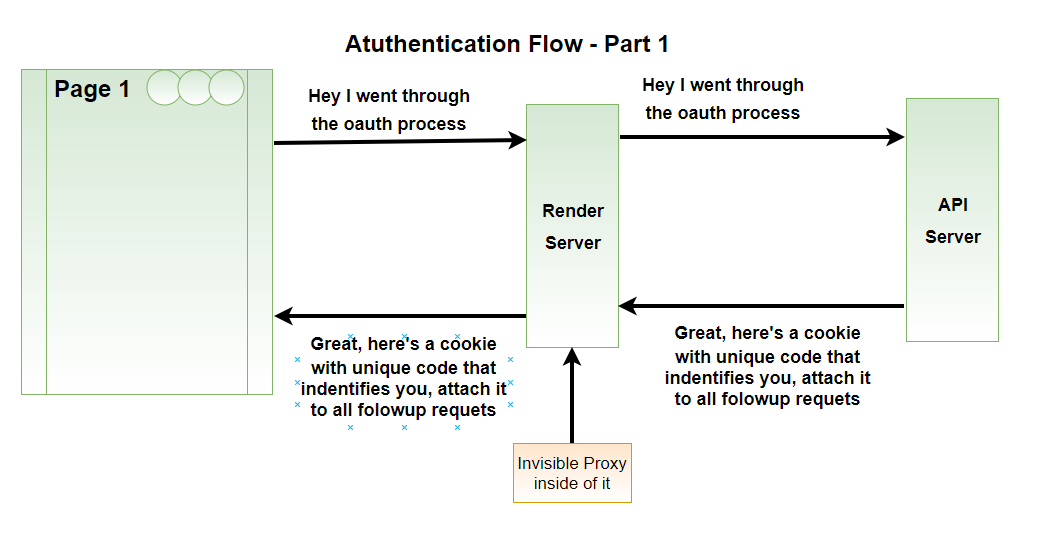
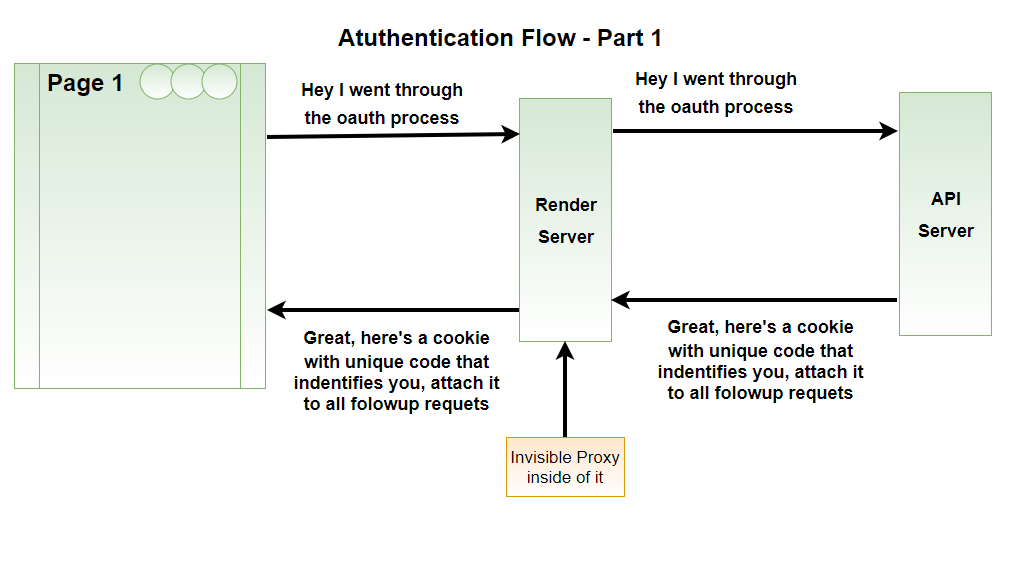
Authentication Flow

diff --git a/Server_Side_Render_React/README.md b/Server_Side_Render_React/README.md
@@ -743,13 +743,17 @@ import serialize from 'serialize-javascript';
 # 4) Solving Fourth Challenge
 #
 >Aspects of authentication needs to be handle on server. Normally this is only on browser 
-![alt text](Draws/Reducers/Authentication-Part-1.png "Authentication Part 1")
+#### Authentication Flow
+![alt text](Draws/Reducers/Authentication-Part-1.PNG "Authentication Part 1")
 
-### Why Not Use JWT (Json Web Token)
+#### Authentication Cookies Flow
+![alt text](Draws/Reducers/Authentication#-Part-2.PNG "Authentication Part 2")
 
-![alt text](Draws/Reducers/Authentication-Why-Not-JWT-Slide-1.PNG "Authentication Why Not JWT Slide 1")
+#### Why Not Use JWT (Json Web Token)
 
-### To Use JWT (Json Web Token) I need another follow request
+![alt text](Draws/Reducers/Authentication#-Why-Not-JWT-Slide-1.PNG "Authentication Why Not JWT Slide 1")
+
+#### To Use JWT (Json Web Token) I need another follow request
 
 ![alt text](Draws/Reducers/Authentication-Why-Not-JWT-Slide-2.PNG "Authentication Why Not JWT Slide 2")
 
